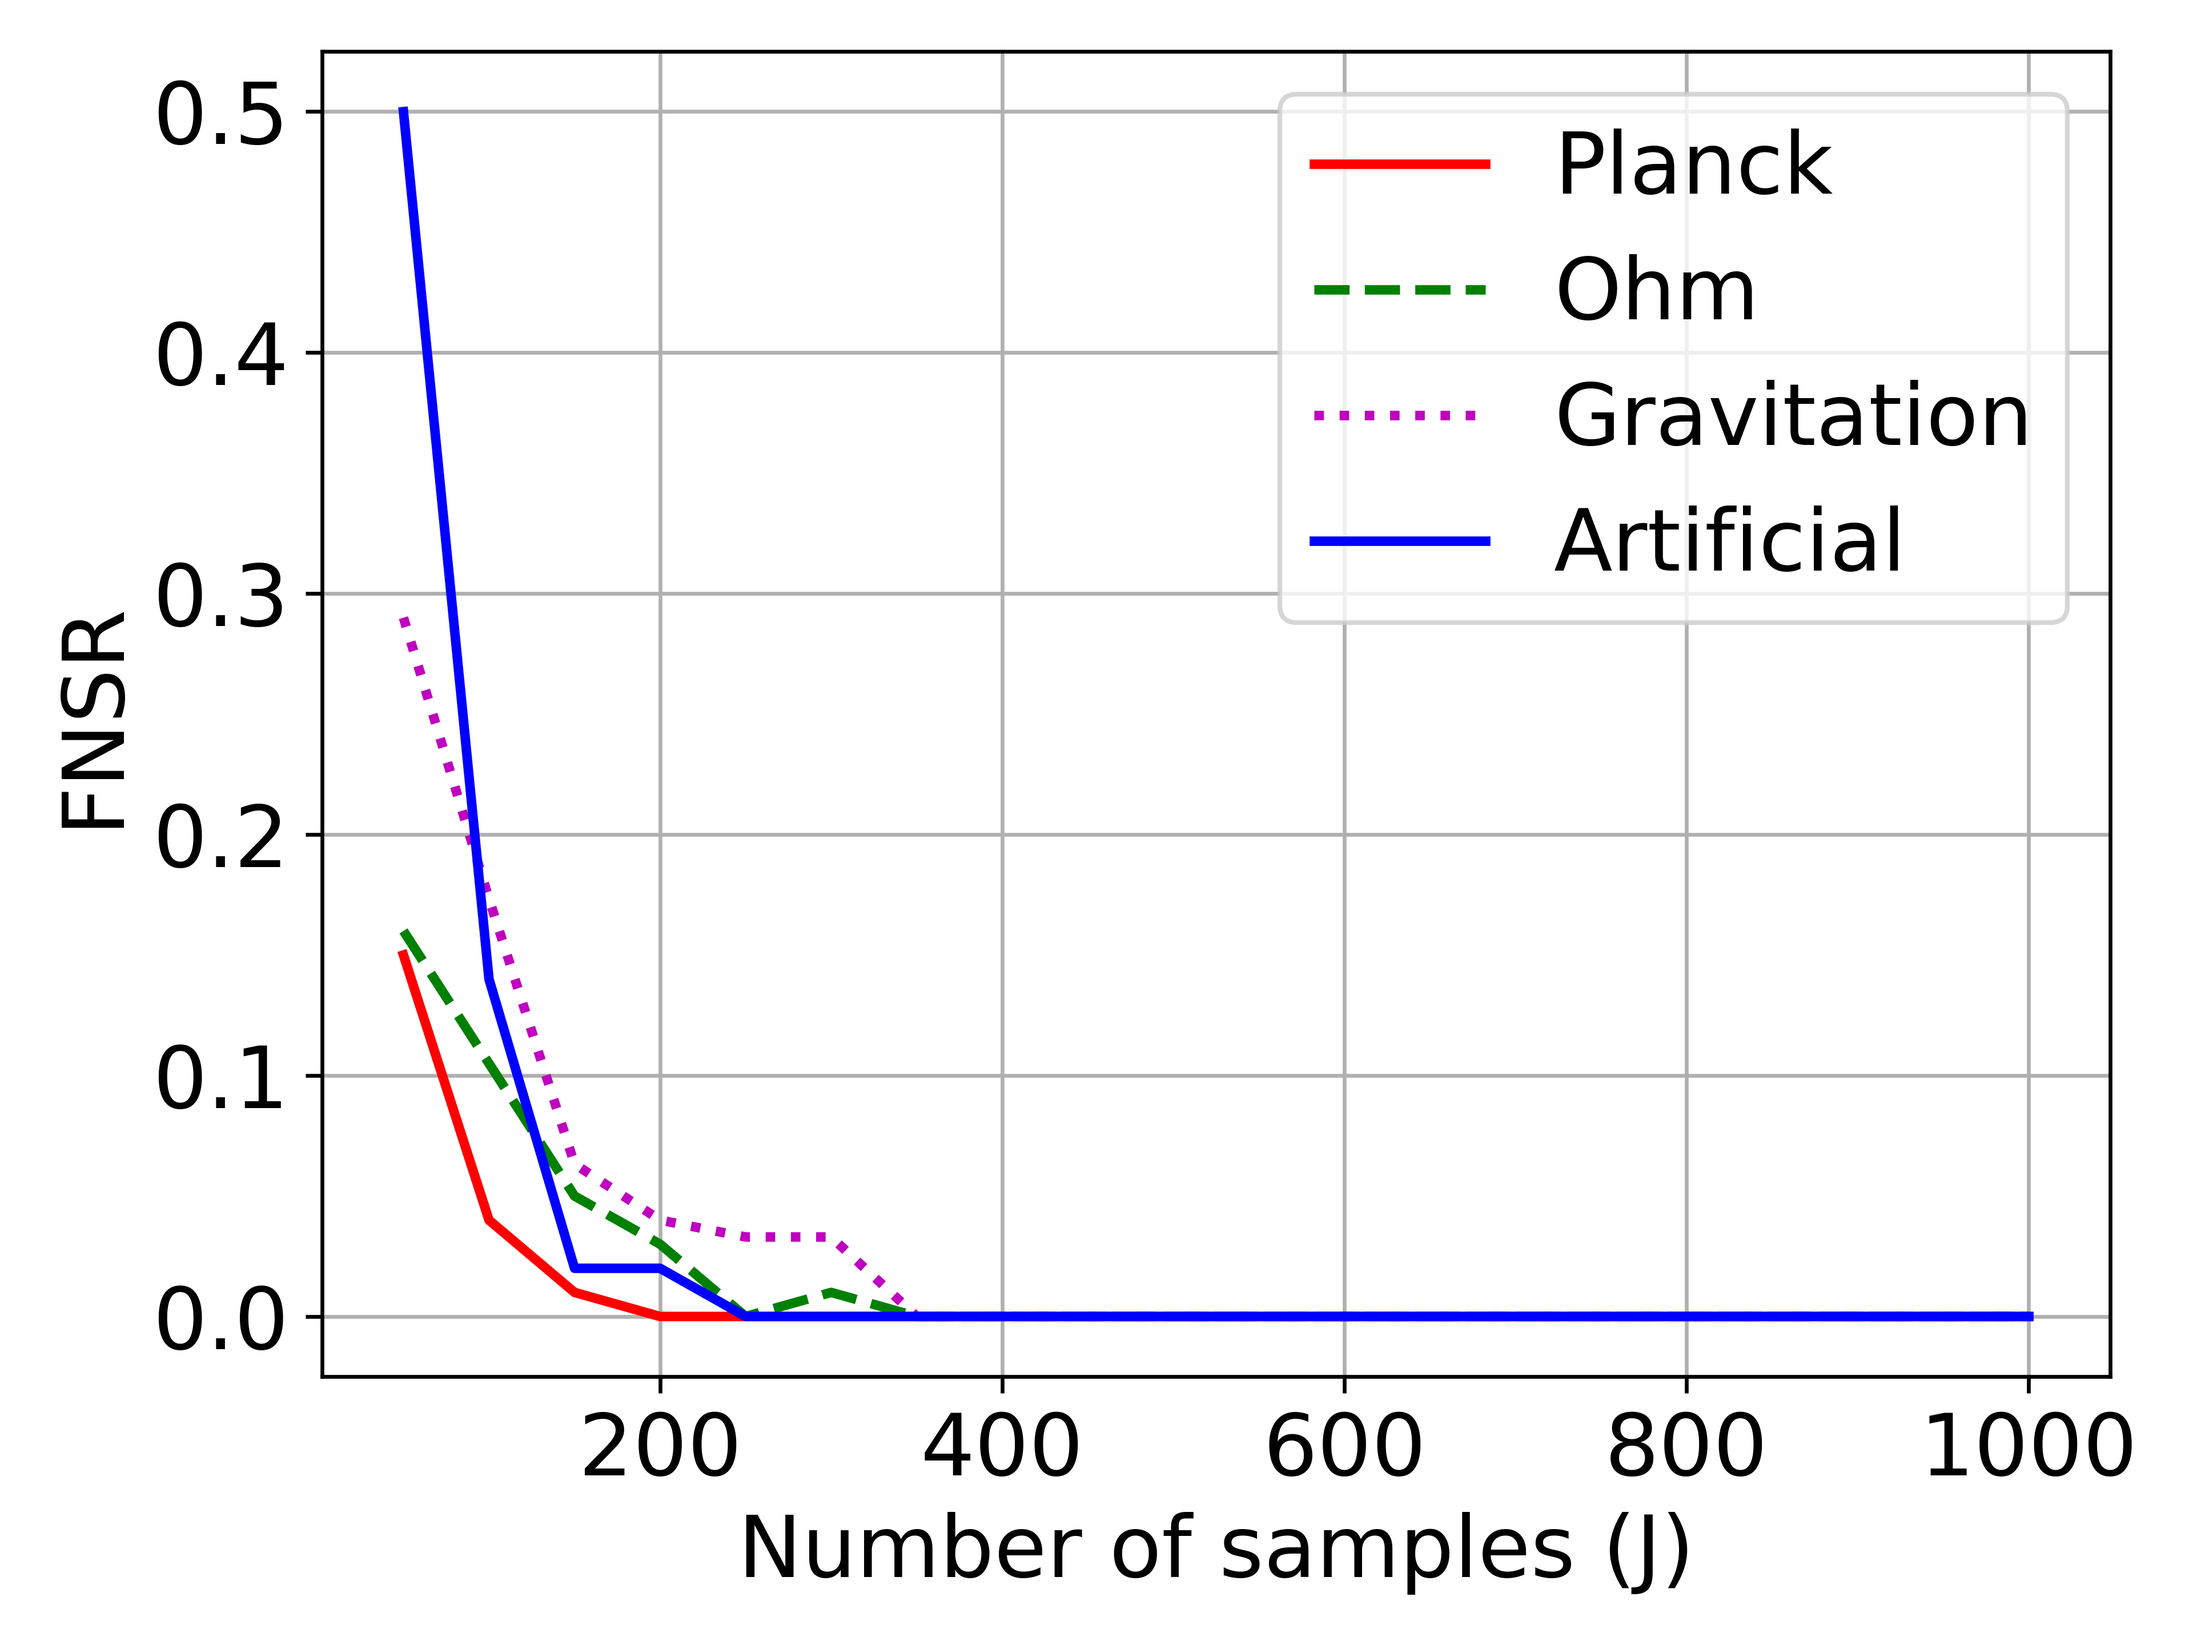
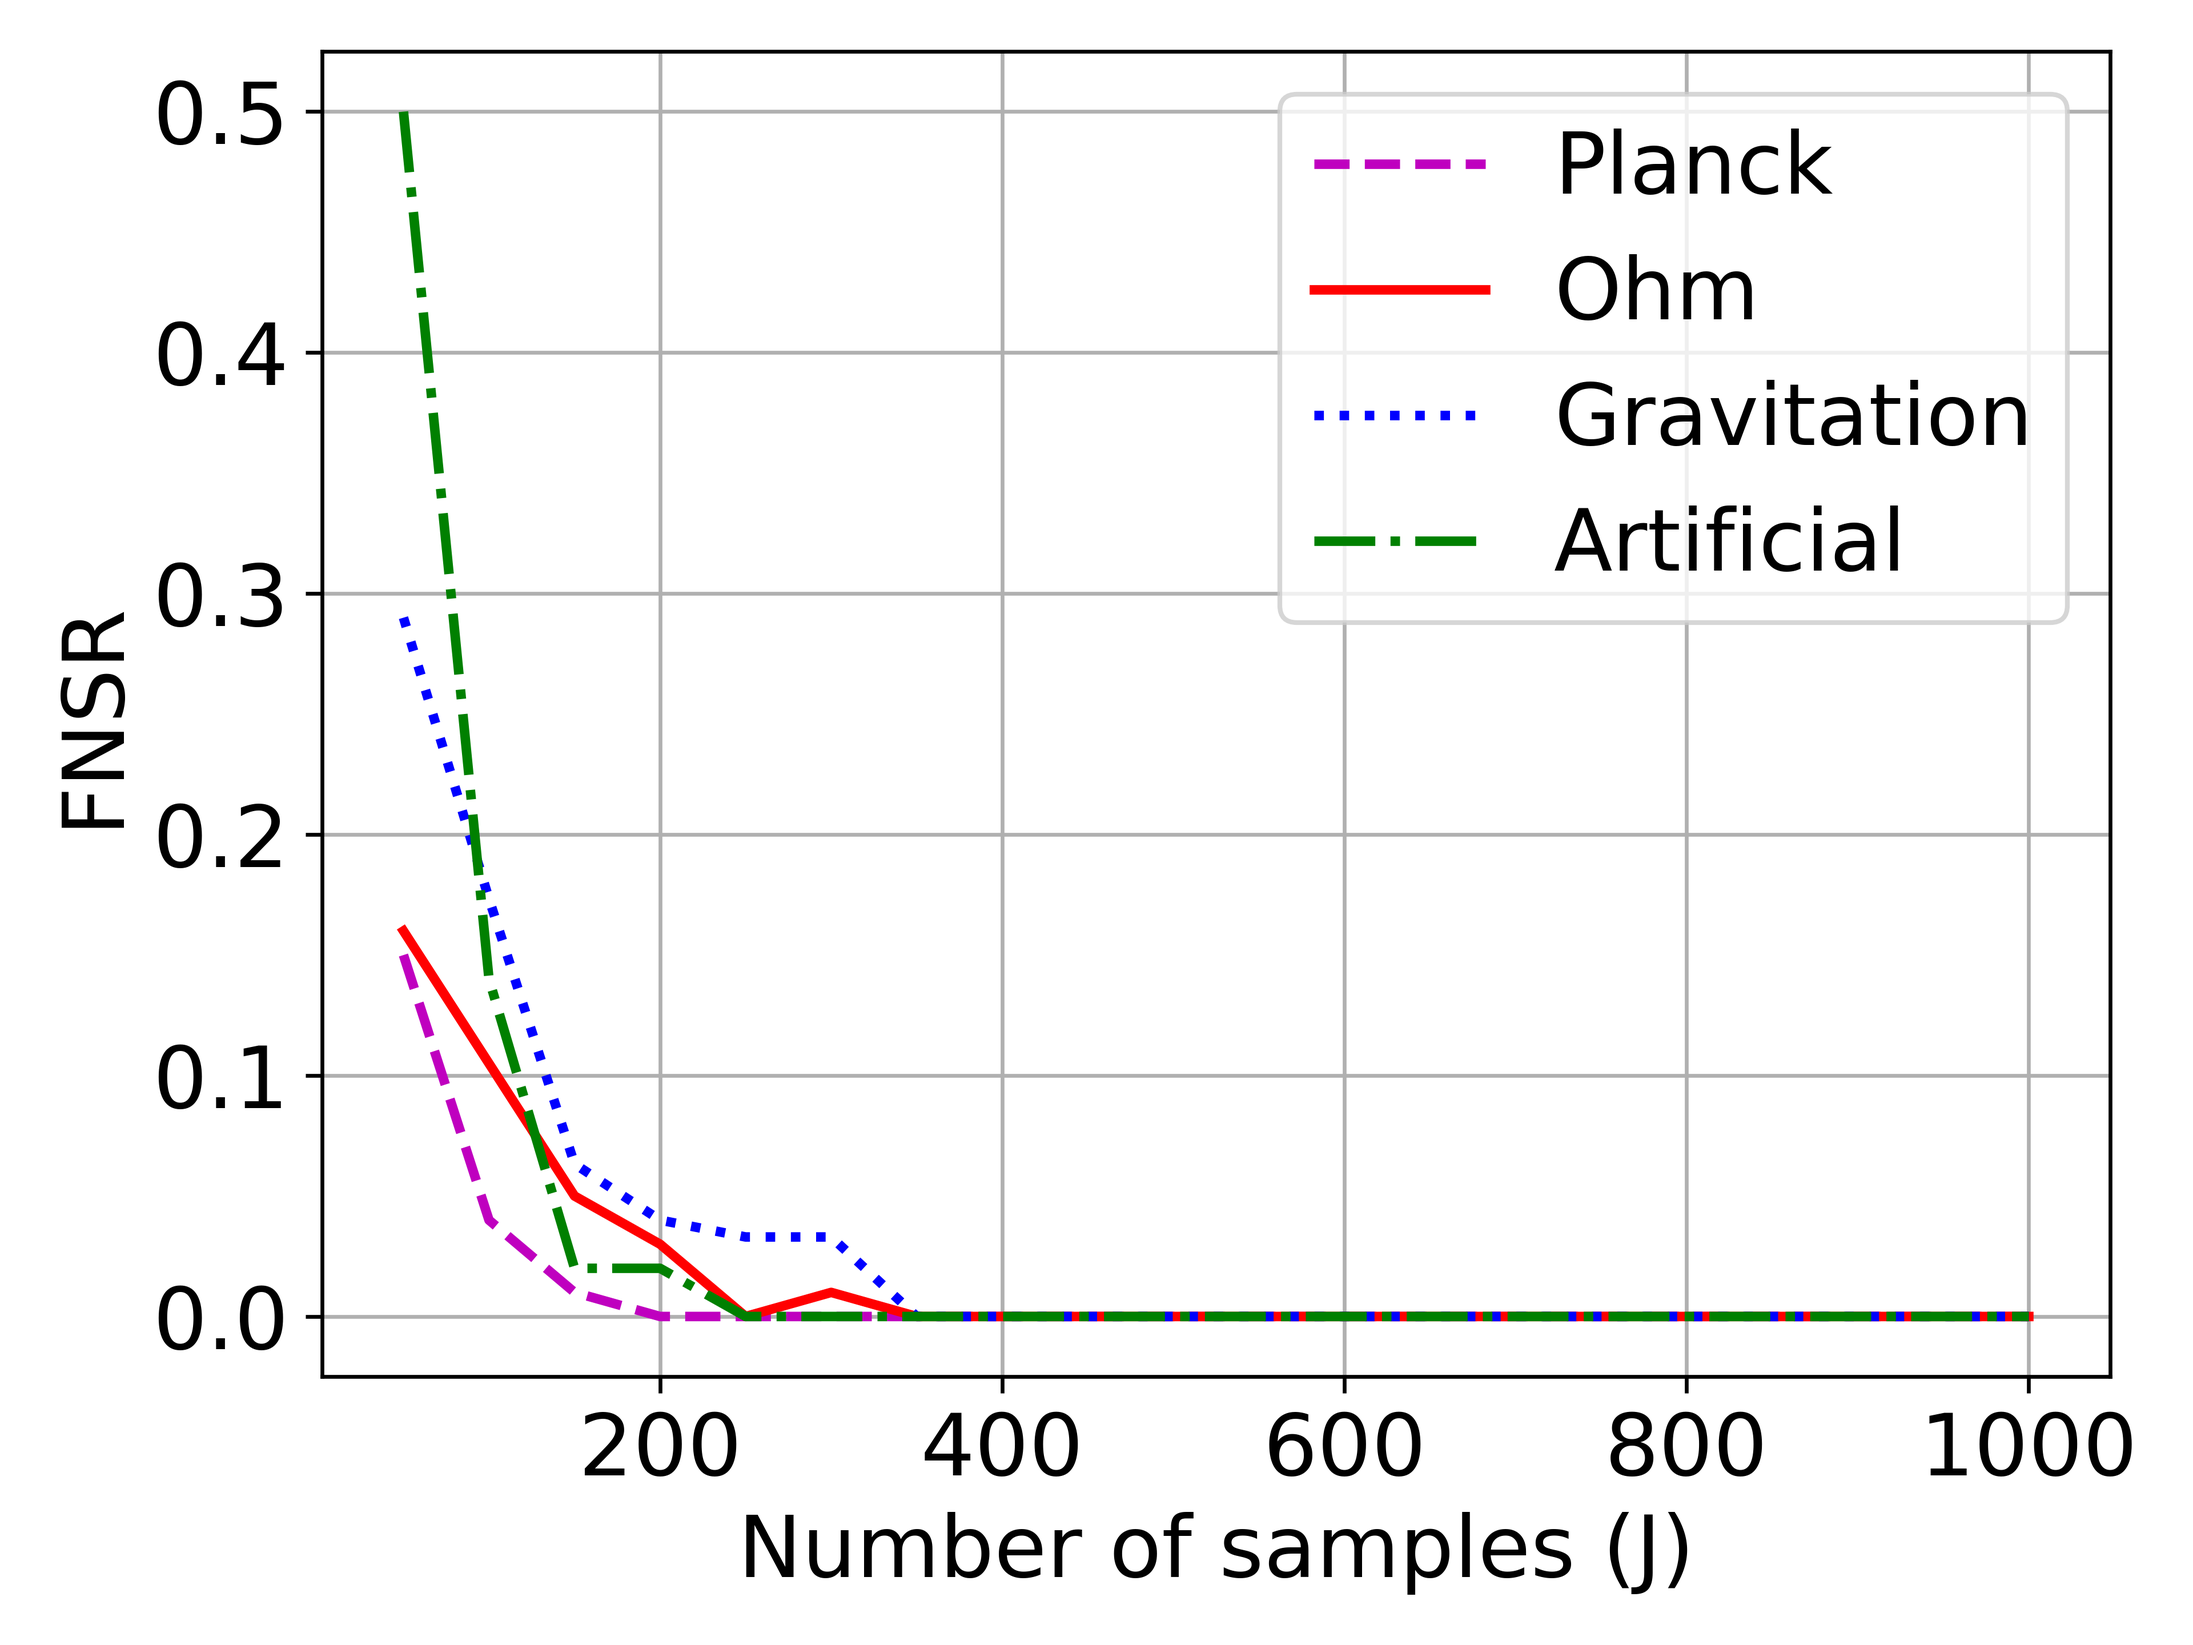
Full Recovery

diff --git a/main2.py b/main2.py
@@ -60,9 +60,32 @@ def main():
 
     S = [0, 1,2,3,4] # 5, 6, 7, 8, 9, 10, 11, 12] # set of true relevant features
     sweep_eta = 0.01 * np.arange(1,11)
-    sweep_J = np.arange(1000, 1050, 50)
+    sweep_J = np.arange(50, 1050, 50)
 
-    
+    NMP_avg_FNSR_Artificial = [0.5, 0.14, 0.02, 0.02, 0, 0, 0, 0, 0, 0, 0, 0, 0, 0, 0, 0, 0, 0, 0, 0]     # for a full test set
+    NMP_avg_FNSR_Gravitation = [0.29, 0.1733, 0.0633, 0.04, 0.033, 0.033, 0, 0, 0, 0, 0, 0, 0, 0, 0, 0, 0, 0, 0, 0]
+    NMP_avg_FNSR_Planck = [0.15, 0.04, 0.01, 0, 0, 0, 0, 0, 0, 0, 0, 0, 0, 0, 0, 0, 0, 0, 0, 0]
+    NMP_avg_FNSR_Ohm = [0.16, 0.105, 0.05, 0.03, 0, 0.01, 0, 0, 0, 0, 0, 0, 0, 0, 0, 0, 0, 0, 0, 0]
+
+    FontSize = 18
+    result_path = "./results/"
+    csfont = {'fontname':'sans-serif'}
+    plt.subplots()
+    plt.plot(sweep_J, NMP_avg_FNSR_Planck, 'm--', label="Planck", linewidth=2)
+    plt.plot(sweep_J, NMP_avg_FNSR_Ohm, 'r-', label="Ohm", linewidth=2)
+    plt.plot(sweep_J, NMP_avg_FNSR_Gravitation, 'b:', label="Gravitation", linewidth=2)
+    plt.plot(sweep_J, NMP_avg_FNSR_Artificial, 'g-.', label="Artificial", linewidth=2)
+    plt.legend(loc='best', fontsize=FontSize)
+    plt.grid()
+    # plt.xlabel("Stopping threshold (eta)",fontdict=csfont, fontsize=FontSize)
+    plt.xlabel("Number of samples (J)",fontdict=csfont, fontsize=FontSize)
+    plt.ylabel("FNSR",fontdict=csfont, fontsize=FontSize)
+    # plt.title(data+", SSFNN", loc='center', fontsize=FontSize)
+    plt.xticks(fontsize=FontSize)
+    plt.yticks(fontsize=FontSize)
+    plt.tight_layout()
+    plt.savefig(result_path +"FNSR_vs_J"+".png",dpi=600)
+    plt.close()
 
     NMP_avg_FPSR = np.array([])
     NMP_avg_FNSR = np.array([])    
@@ -183,31 +206,57 @@ def main():
     # plt.savefig(result_path +"NGP_vs_reversed_vs_random"+".png",dpi=600)
     # plt.close()
 
+    
+    
+    NMP_avg_FNSR_Artificial = [0.5, 0.14, 0.02, 0.02, 0, 0, 0, 0, 0, 0, 0, 0, 0, 0, 0, 0, 0, 0, 0, 0]     # for a full test set
+    NMP_avg_FNSR_Gravitation = [0.29, 0.1733, 0.0633, 0.04, 0.033, 0.033, 0, 0, 0, 0, 0, 0, 0, 0, 0, 0, 0, 0, 0, 0]
+    NMP_avg_FNSR_Planck = [0.15, 0.04, 0.01, 0, 0, 0, 0, 0, 0, 0, 0, 0, 0, 0, 0, 0, 0, 0, 0, 0]
+    NMP_avg_FNSR_Ohm = [0.16, 0.105, 0.05, 0.03, 0, 0.01, 0, 0, 0, 0, 0, 0, 0, 0, 0, 0, 0, 0, 0, 0]
 
-    # NMP_avg_FNSR_Artificial = [0.5, 0.14, 0.02, 0.02, 0, 0, 0, 0, 0, 0, 0, 0, 0, 0, 0, 0, 0, 0, 0, 0]     # for a full test set
-    # NMP_avg_FNSR_Gravitation = [0.29, 0.1733, 0.0633, 0.04, 0.033, 0.033, 0, 0, 0, 0, 0, 0, 0, 0, 0, 0, 0, 0, 0, 0]
-    # NMP_avg_FNSR_Planck = [0.15, 0.04, 0.01, 0, 0, 0, 0, 0, 0, 0, 0, 0, 0, 0, 0, 0, 0, 0, 0, 0]
-    # NMP_avg_FNSR_Ohm = [0.16, 0.105, 0.05, 0.03, 0, 0.01, 0, 0, 0, 0, 0, 0, 0, 0, 0, 0, 0, 0, 0, 0]
+    FontSize = 18
+    result_path = "./results/"
+    csfont = {'fontname':'sans-serif'}
+    plt.subplots()
+    plt.plot(sweep_J, NMP_avg_FNSR_Planck, 'm--', label="Planck", linewidth=2)
+    plt.plot(sweep_J, NMP_avg_FNSR_Ohm, 'r-', label="Ohm", linewidth=2)
+    plt.plot(sweep_J, NMP_avg_FNSR_Gravitation, 'b:', label="Gravitation", linewidth=2)
+    plt.plot(sweep_J, NMP_avg_FNSR_Artificial, 'g-.', label="Artificial", linewidth=2)
+    plt.legend(loc='best', fontsize=FontSize)
+    plt.grid()
+    # plt.xlabel("Stopping threshold (eta)",fontdict=csfont, fontsize=FontSize)
+    plt.xlabel("Number of samples (J)",fontdict=csfont, fontsize=FontSize)
+    plt.ylabel("FNSR",fontdict=csfont, fontsize=FontSize)
+    # plt.title(data+", SSFNN", loc='center', fontsize=FontSize)
+    plt.xticks(fontsize=FontSize)
+    plt.yticks(fontsize=FontSize)
+    plt.tight_layout()
+    plt.savefig(result_path +"FNSR_vs_J"+".png",dpi=600)
+    plt.close()
 
-    # FontSize = 18
-    # result_path = "./results/"
-    # csfont = {'fontname':'sans-serif'}
-    # plt.subplots()
-    # plt.plot(sweep_J, NMP_avg_FNSR_Planck, 'r-', label="Planck", linewidth=2)
-    # plt.plot(sweep_J, NMP_avg_FNSR_Ohm, 'g--', label="Ohm", linewidth=2)
-    # plt.plot(sweep_J, NMP_avg_FNSR_Gravitation, 'm:', label="Gravitation", linewidth=2)
-    # plt.plot(sweep_J, NMP_avg_FNSR_Artificial, 'b-', label="Artificial", linewidth=2)
-    # plt.legend(loc='best', fontsize=FontSize)
-    # plt.grid()
-    # # plt.xlabel("Stopping threshold (eta)",fontdict=csfont, fontsize=FontSize)
-    # plt.xlabel("Number of samples (J)",fontdict=csfont, fontsize=FontSize)
-    # plt.ylabel("FNSR",fontdict=csfont, fontsize=FontSize)
-    # # plt.title(data+", SSFNN", loc='center', fontsize=FontSize)
-    # plt.xticks(fontsize=FontSize)
-    # plt.yticks(fontsize=FontSize)
-    # plt.tight_layout()
-    # plt.savefig(result_path +"FNSR_vs_J"+".png",dpi=600)
-    # plt.close()
+    NMP_FullR_Ohm = [0, 0, 0, 0, 0, 0, 1, 1, 1, 1, 1, 1 , 1, 1, 1, 1, 1, 1, 1, 1]
+    NMP_FullR_Gravitation = [0, 0, 0, 0, 0, 0, 1, 1, 1, 1, 1, 1, 1, 1, 1, 1, 1, 1, 1, 1]
+    NMP_FullR_Planck = [0, 0, 0, 1, 1, 1, 1, 1, 1, 1, 1, 1, 1, 1, 1, 1, 1, 1, 1, 1]
+    NMP_FullR_Artificial = [0, 0, 0, 0, 1, 1, 1, 1, 1, 1, 1, 1, 1, 1, 1, 1, 1, 1, 1, 1]
+    FontSize = 18
+    result_path = "./results/"
+    csfont = {'fontname':'sans-serif'}
+    plt.subplots()
+    plt.plot(sweep_J, NMP_FullR_Planck, 'm--', label="Planck", linewidth=2)
+    plt.plot(sweep_J, NMP_FullR_Ohm, 'r-', label="Ohm", linewidth=2)
+    plt.plot(sweep_J, NMP_FullR_Gravitation, 'b:', label="Gravitation", linewidth=2)
+    plt.plot(sweep_J, NMP_FullR_Artificial, 'g-.', label="Artificial", linewidth=2)
+    plt.legend(loc='best', fontsize=FontSize)
+    plt.grid()
+    # plt.xlabel("Stopping threshold (eta)",fontdict=csfont, fontsize=FontSize)
+    plt.xlabel("Number of samples (J)",fontdict=csfont, fontsize=FontSize)
+    plt.ylabel("Full Recovery",fontdict=csfont, fontsize=FontSize)
+    # plt.title(data+", SSFNN", loc='center', fontsize=FontSize)
+    plt.xticks(fontsize=FontSize)
+    plt.yticks(fontsize=FontSize)
+    plt.tight_layout()
+    plt.savefig(result_path +"FullR_vs_J"+".png",dpi=600)
+    plt.close()
+
     
 
 
